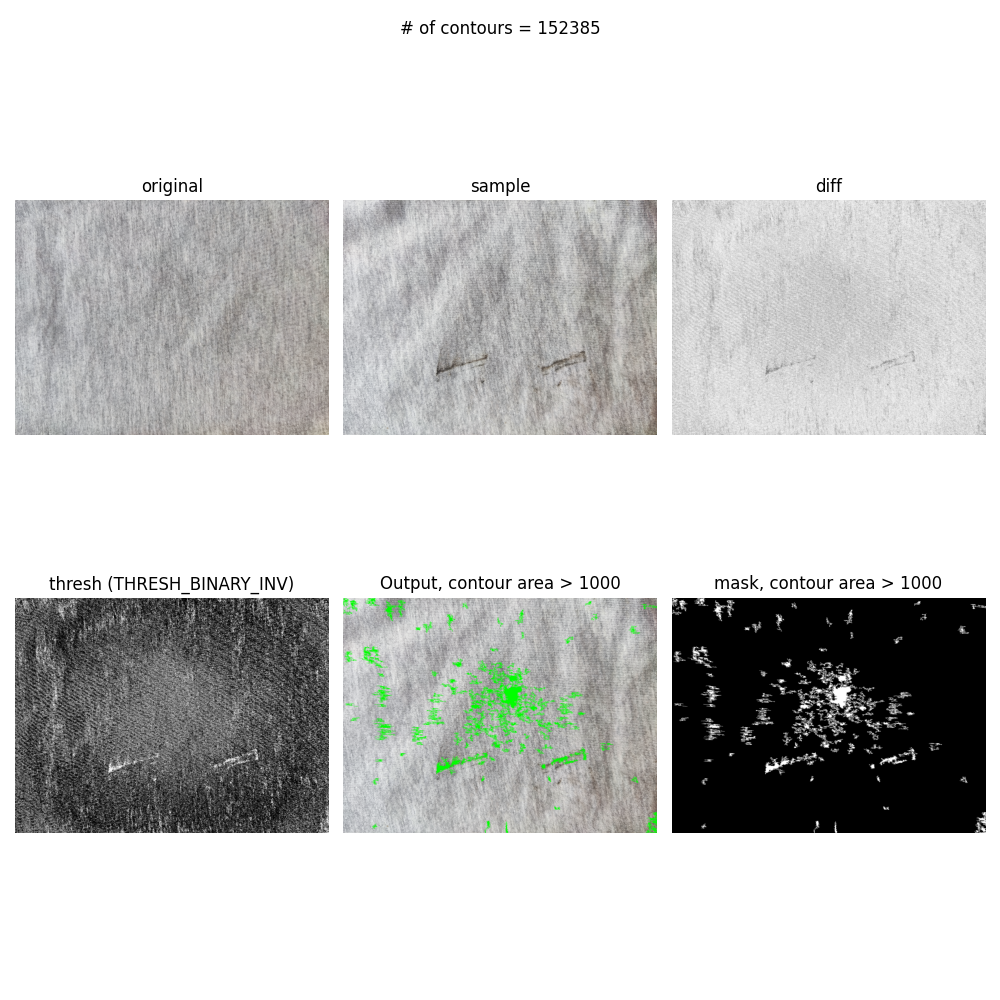
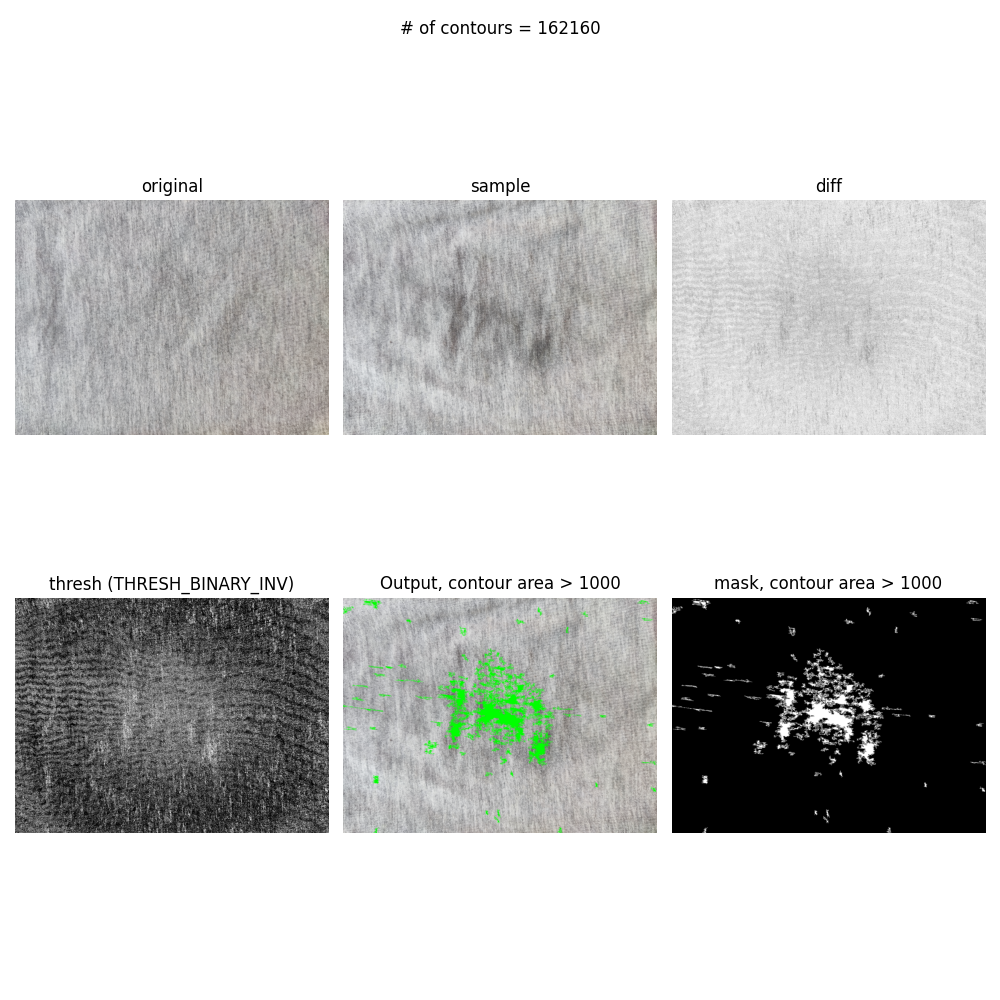
added: edge cases

diff --git a/src/crop.py b/src/crop.py
@@ -1,16 +1,7 @@
 import cv2 as cv
 
-def rescaleImg(img, scale=0.75):
-    height = int(img.shape[0] * scale)
-    width = int(img.shape[1] * scale)
-
-    dimensions = (width, height)
-
-    return cv.resize(img, dimensions, interpolation=cv.INTER_AREA)
-
-ref = cv.imread("../photos/ref.jpg")
-ref2 = cv.imread("../photos/ref2.jpg")
-
+ref = cv.imread("../photos/complex_original.jpg")
+ref2 = cv.imread("../photos/comlex_sample.jpg")
 
 ref = ref[1000:-1000, 500:-500]
 ref2 = ref2[1000:-1000, 500:-500]
@@ -18,12 +9,8 @@ ref2 = ref2[1000:-1000, 500:-500]
 print(ref.shape)
 print(ref2.shape)
 
-cv.imwrite("ref1.jpg", ref)
-cv.imwrite("ref2.jpg", ref2)
-
-scale = 0.2
-cv.imshow("ref", rescaleImg(ref, scale))
-cv.imshow("ref2", rescaleImg(ref2, scale))
+cv.imwrite("complex_original.jpg", ref)
+cv.imwrite("complex_sample.jpg", ref2)
 
 
 cv.waitKey(0)

diff --git a/src/process.py b/src/process.py
@@ -61,7 +61,7 @@ def process(original, sample, bias=1000):
     plt.show()
 
 original = cv.imread("../photos/tshirt_original.jpg")
-sample = cv.imread("../photos/tshirt_sample_1.jpg")
+sample = cv.imread("../photos/tshirt_sample_2.jpg")
 
 bias = 1000
 

diff --git a/README.md b/README.md
@@ -9,9 +9,18 @@ $ python main.py
 ```
 
 ## Sample Output
-![Output Sample](https://i.ibb.co/R4vx9Cp/output-tshirt-sample-2.png)
-![Output Sample](https://i.ibb.co/qg1K4wF/output-tshirt-sample-1.png)
-![Output Sample](https://i.ibb.co/8zpVbZM/output-sample.png)
+![Output Sample](https://i.ibb.co/kgb6J90/output-tshirt-sample-2.png)
+![Output Sample](https://i.ibb.co/48fsp74/output-tshirt-sample-1.png)
+![Output Sample](https://i.ibb.co/C8wBj1j/output-sample.png)
+
+## Limitations
 
 ### Noise
-![Output Noise](https://i.ibb.co/4jXSnzN/output-noise.png)
+Noise exists in output
+
+![Output Noise](https://i.ibb.co/7KPFjmN/output-noise.png)
+
+### Complex sample
+Doesn't work on complex samples
+
+![Output complex sample](https://i.ibb.co/stvwZ25/output-complex.png)
